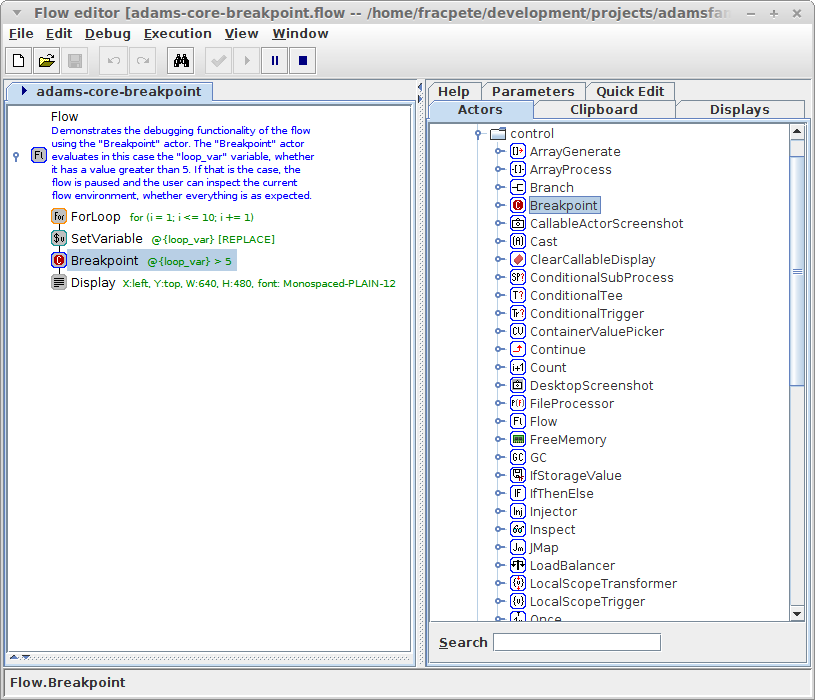
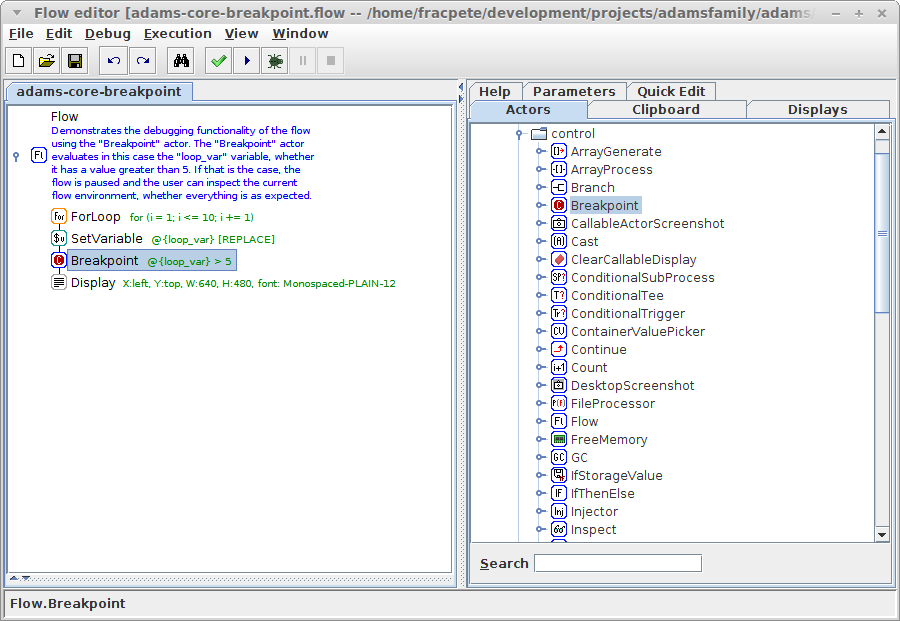
added "Run (debug)" menu item to flow editor to start debugging with first active actor

Changed region(s): [[0.0, 0.0, 1.0, 1.0]]

diff --git a/adams-core/src/main/java/adams/gui/flow/FlowPanel.java b/adams-core/src/main/java/adams/gui/flow/FlowPanel.java
@@ -15,7 +15,7 @@
 
 /*
  * FlowPanel.java
- * Copyright (C) 2009-2014 University of Waikato, Hamilton, New Zealand
+ * Copyright (C) 2009-2015 University of Waikato, Hamilton, New Zealand
  */
 
 package adams.gui.flow;
@@ -41,6 +41,7 @@ import adams.flow.control.Flow;
 import adams.flow.core.AbstractActor;
 import adams.flow.core.AbstractDisplay;
 import adams.flow.core.ActorUtils;
+import adams.flow.execution.PathBreakpoint;
 import adams.flow.processor.AbstractActorProcessor;
 import adams.gui.chooser.FlowFileChooser;
 import adams.gui.core.BaseDialog;
@@ -129,6 +130,9 @@ public class FlowPanel
     /** whether to show a notification. */
     protected boolean m_ShowNotification;
 
+    /** whether to run in debug mode. */
+    protected boolean m_Debug;
+
     /** whether the flow is still being executed. */
     protected boolean m_Running;
 
@@ -138,11 +142,12 @@ public class FlowPanel
     /**
      * Initializes the worker.
      */
-    public FlowWorker(FlowPanel owner, AbstractActor flow, File file, boolean showNotification) {
+    public FlowWorker(FlowPanel owner, AbstractActor flow, File file, boolean showNotification, boolean debug) {
       m_Owner            = owner;
       m_Flow             = flow;
       m_File             = file;
       m_ShowNotification = showNotification;
+      m_Debug            = debug;
       m_Running          = false;
       m_Stopping         = false;
     }
@@ -154,6 +159,8 @@ public class FlowPanel
      * @throws Exception if unable to compute a result
      */
     protected Object doInBackground() throws Exception {
+      PathBreakpoint	breakpoint;
+
       m_Owner.update();
       m_Owner.cleanUp();
       m_Owner.clearNotification();
@@ -168,6 +175,14 @@ public class FlowPanel
         if (m_Flow instanceof Flow) {
 	  ((Flow) m_Flow).setHeadless(m_Owner.isHeadless());
 	  ((Flow) m_Flow).setParentComponent(m_Owner);
+	  if (m_Debug) {
+	    if (((Flow) m_Flow).firstActive() != null) {
+	      breakpoint = new PathBreakpoint();
+	      breakpoint.setPath(((Flow) m_Flow).firstActive().getFullName());
+	      breakpoint.setOnPreExecute(true);
+	      ((Flow) m_Flow).addBreakpoint(breakpoint);
+	    }
+	  }
 	}
 	m_Output = m_Flow.setUp();
 	if ((m_Output == null) && !m_Flow.isStopped()) {
@@ -1087,7 +1102,7 @@ public class FlowPanel
    * Executes the flow.
    */
   public void run() {
-    run(true);
+    run(true, false);
   }
 
   /**
@@ -1095,9 +1110,10 @@ public class FlowPanel
    *
    * @param showNotification	whether to show notifications about
    * 				errors/stopped/finished
+   * @param debug		whether to run in debug mode
    */
-  public void run(boolean showNotification) {
-    m_CurrentWorker = new FlowWorker(this, getCurrentFlow(), getCurrentFile(), showNotification);
+  public void run(boolean showNotification, boolean debug) {
+    m_CurrentWorker = new FlowWorker(this, getCurrentFlow(), getCurrentFile(), showNotification, debug);
     m_CurrentThread = new Thread(m_CurrentWorker);
     m_CurrentThread.start();
   }

diff --git a/adams-core/src/main/java/adams/gui/flow/FlowEditorPanel.java b/adams-core/src/main/java/adams/gui/flow/FlowEditorPanel.java
@@ -74,6 +74,7 @@ import adams.gui.flow.menu.ExecutionHeadless;
 import adams.gui.flow.menu.ExecutionKill;
 import adams.gui.flow.menu.ExecutionPauseResume;
 import adams.gui.flow.menu.ExecutionRun;
+import adams.gui.flow.menu.ExecutionRunDebug;
 import adams.gui.flow.menu.ExecutionStop;
 import adams.gui.flow.menu.ExecutionValidateSetup;
 import adams.gui.flow.menu.FileCheckOnSave;
@@ -297,6 +298,9 @@ public class FlowEditorPanel
 
   /** the "run" action. */
   protected FlowEditorAction m_ActionExecutionRun;
+
+  /** the "run (debug)" action. */
+  protected FlowEditorAction m_ActionExecutionRunDebug;
 
   /** the "pause" action. */
   protected FlowEditorAction m_ActionExecutionPauseAndResume;
@@ -640,6 +644,11 @@ public class FlowEditorPanel
     m_ActionExecutionRun = action;
     m_MenuItems.add(action);
 
+    // Execution/Run (debug)
+    action = new ExecutionRunDebug();
+    m_ActionExecutionRunDebug = action;
+    m_MenuItems.add(action);
+
     // Execution/Pause+Resume
     action = new ExecutionPauseResume();
     m_ActionExecutionPauseAndResume = action;
@@ -752,6 +761,7 @@ public class FlowEditorPanel
     addSeparator();
     addToToolBar(m_ActionExecutionValidateSetup);
     addToToolBar(m_ActionExecutionRun);
+    addToToolBar(m_ActionExecutionRunDebug);
     addToToolBar(m_ActionExecutionPauseAndResume);
     addToToolBar(m_ActionExecutionStop);
   }
@@ -986,6 +996,7 @@ public class FlowEditorPanel
 
       menu.add(m_ActionExecutionValidateSetup);
       menu.add(m_ActionExecutionRun);
+      menu.add(m_ActionExecutionRunDebug);
       menu.add(m_ActionExecutionPauseAndResume);
       menu.add(m_ActionExecutionStop);
       menu.add(m_ActionExecutionKill);
@@ -1438,7 +1449,7 @@ public class FlowEditorPanel
    * Executes the flow.
    */
   public void run() {
-    run(true);
+    run(true, false);
   }
 
   /**
@@ -1446,10 +1457,11 @@ public class FlowEditorPanel
    *
    * @param showNotification	whether to show notifications about
    * 				errors/stopped/finished
+   * @param debug		whether to run in debug mode
    */
-  public void run(boolean showNotification) {
+  public void run(boolean showNotification, boolean debug) {
     if (hasCurrentPanel())
-      getCurrentPanel().run(showNotification);
+      getCurrentPanel().run(showNotification, debug);
   }
 
   /**

diff --git a/adams-core/src/main/java/adams/gui/flow/menu/ExecutionRunDebug.java b/adams-core/src/main/java/adams/gui/flow/menu/ExecutionRunDebug.java
@@ -14,20 +14,20 @@
  */
 
 /**
- * ExecutionRun.java
- * Copyright (C) 2014 University of Waikato, Hamilton, New Zealand
+ * ExecutionRunDebug.java
+ * Copyright (C) 2015 University of Waikato, Hamilton, New Zealand
  */
 package adams.gui.flow.menu;
 
 import java.awt.event.ActionEvent;
 
 /**
- * Executes the flow.
+ * Executes the flow in debug mode.
  * 
  * @author  fracpete (fracpete at waikato dot ac dot nz)
  * @version $Revision$
  */
-public class ExecutionRun
+public class ExecutionRunDebug
   extends AbstractFlowEditorMenuItemAction {
 
   /** for serialization. */
@@ -40,7 +40,7 @@ public class ExecutionRun
    */
   @Override
   protected String getTitle() {
-    return "Run";
+    return "Run (debug)";
   }
 
   /**
@@ -48,7 +48,7 @@ public class ExecutionRun
    */
   @Override
   protected void doActionPerformed(ActionEvent e) {
-    m_State.run(true, false);
+    m_State.run(true, true);
   }
 
   /**

diff --git a/adams-core/src/test/java/adams/flow/StressTestFlow.java b/adams-core/src/test/java/adams/flow/StressTestFlow.java
@@ -15,12 +15,10 @@
 
 /*
  * StressTestFlow.java
- * Copyright (C) 2009-2010 University of Waikato
+ * Copyright (C) 2009-2015 University of Waikato
  */
 
 package adams.flow;
-
-import java.awt.BorderLayout;
 
 import adams.env.Environment;
 import adams.flow.core.AbstractActor;
@@ -29,6 +27,8 @@ import adams.gui.core.BaseFrame;
 import adams.gui.flow.FlowEditorPanel;
 import adams.gui.scripting.ScriptingEngine;
 import adams.test.AbstractFileStressTest;
+
+import java.awt.BorderLayout;
 
 /**
  <!-- globalinfo-start -->
@@ -208,7 +208,7 @@ public class StressTestFlow
 	  }
 
 	  // run
-	  m_Panel.run(false);
+	  m_Panel.run(false, false);
 	  while (m_Panel.isRunning() || (!m_Panel.isRunning() && m_Panel.isStopping())) {
 	    try {
 	      synchronized(this) {
